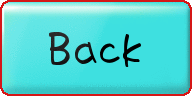
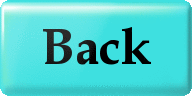
大淀の板追加

Changed region(s): [[0.2188, 0.2812, 0.7812, 0.7188], [0.0, 0.0, 1.0, 1.0]]

diff --git a/Mirror/Common/Drawer.cpp b/Mirror/Common/Drawer.cpp
@@ -69,6 +69,7 @@ void Drawer::update( ) {
 void Drawer::drawImage( ) {
 	std::list< ExtendImageProperty >::iterator ite;
 	ite = _images.begin( );
+	SetDrawMode( DX_DRAWMODE_BILINEAR );
 	for ( ite; ite != _images.end( ); ite++ ) {
 		ImageProperty image = ite->base;
 		errno_t image_handle = image.png;
@@ -100,6 +101,7 @@ void Drawer::drawImage( ) {
 			SetDrawBlendMode( DX_BLENDMODE_NOBLEND, 0 );
 		}
 	}
+	SetDrawMode( DX_DRAWMODE_NEAREST );
 }
 
 void Drawer::drawFrontString( ) {
